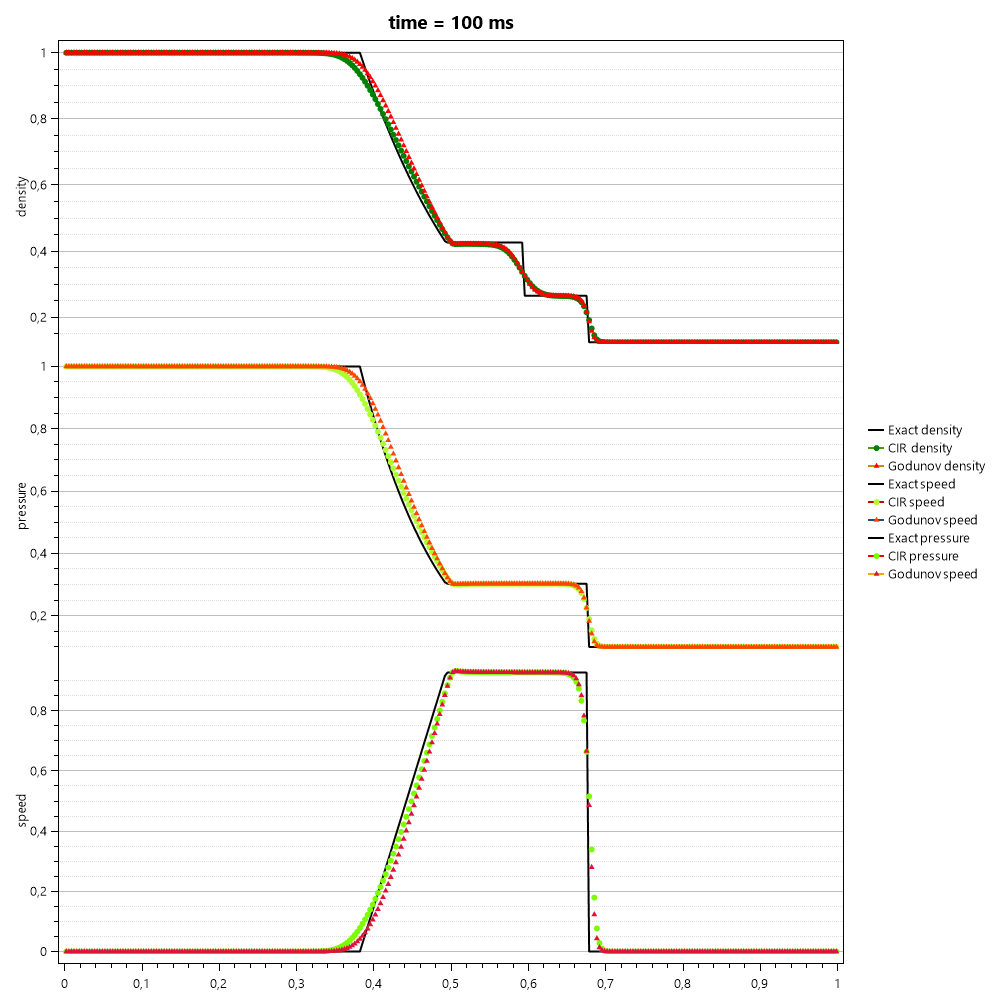
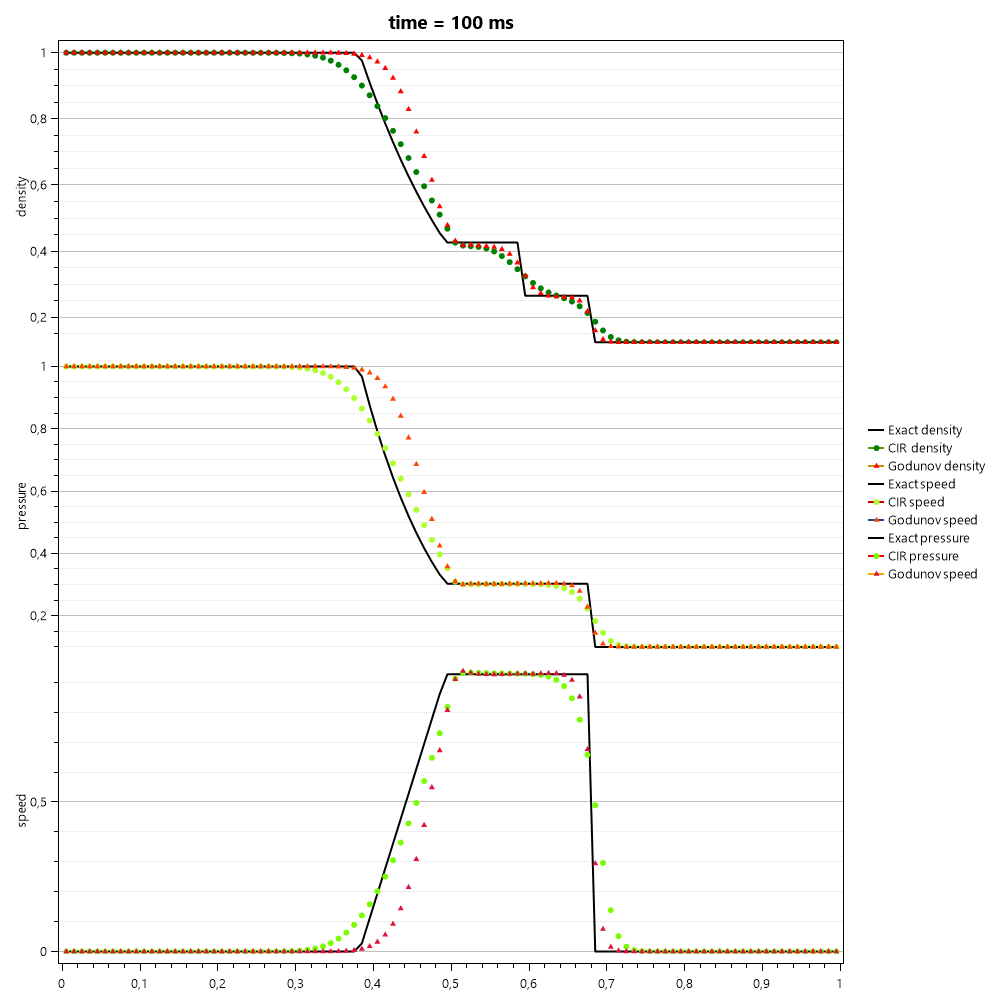
минмод метод, график исправление

diff --git a/Utility/Plots.cs b/Utility/Plots.cs
@@ -14,7 +14,7 @@ namespace Sod.Utility
 {
     public abstract class Plots : Write
     {
-        public static void PlotBoth(Parameters param, double[,] v_cons1, double[,] v_cons2, string method)
+        public static void PlotBoth(Parameters param, double[,] v_cons1, double[,] v_cons2, string method,string method1, string method2)
         {
             method = method + "both_";
             var time = param.stop_time;
@@ -45,7 +45,7 @@ namespace Sod.Utility
             };
             var ls1 = new LineSeries()
             {
-                Title = "CIR density",
+                Title = method1+" density",
                 MarkerStrokeThickness = 0,
                 MarkerStroke = OxyColors.Transparent,
                 LineStyle = LineStyle.None,
@@ -55,7 +55,7 @@ namespace Sod.Utility
             };
             var ls1_ = new LineSeries()
             {
-                Title = "Godunov density",
+                Title = method2+" density",
                 MarkerStrokeThickness = 0,
                 MarkerStroke = OxyColors.Transparent,
                 LineStyle = LineStyle.None,
@@ -69,7 +69,7 @@ namespace Sod.Utility
             //поменял местами для красоты
             var ls2 = new LineSeries()
             {
-                Title = "CIR speed",
+                Title = method1 +" speed",
                 MarkerStrokeThickness = 0,
                 MarkerStroke = OxyColors.Transparent,
                 LineStyle = LineStyle.None,
@@ -79,7 +79,7 @@ namespace Sod.Utility
             };
             var ls2_ = new LineSeries()
             {
-                Title = "Godunov speed",
+                Title = method2+ " speed",
                 MarkerStrokeThickness = 0,
                 MarkerStroke = OxyColors.Transparent,
                 LineStyle = LineStyle.None,
@@ -92,7 +92,7 @@ namespace Sod.Utility
 
             var ls3 = new LineSeries()
             {
-                Title = "CIR pressure",
+                Title = method1 + " pressure",
                 MarkerStrokeThickness = 0,
                 MarkerStroke = OxyColors.Transparent,
                 LineStyle = LineStyle.None,
@@ -102,7 +102,7 @@ namespace Sod.Utility
             };
             var ls3_ = new LineSeries()
             {
-                Title = "Godunov speed",
+                Title = method2 +" speed",
                 MarkerStrokeThickness = 0,
                 MarkerStroke = OxyColors.Transparent,
                 LineStyle = LineStyle.None,

diff --git a/Program.cs b/Program.cs
@@ -13,10 +13,10 @@ namespace Sod
         static void Main()
         {
 
-            int N = 300;
+            int N = 200;
             string result_name_file = $"";
             double gamma = 1.4;
-            double time = 0.1;
+            double time = 0.05;
 
             // Sod, Modified Sod, 2 vacuum waves, Big gradient, 3 breaks
             double[,] left = { { 1, 0, 1 }, { 1.0, 0.75, 1.0 }, { 1.0, -2.0, 0.4 }, { 1.0, 0.0, 1000.0 }, { 5.99924, 19.5975, 460.894 } };
@@ -43,7 +43,7 @@ namespace Sod
                 var mm = new Minmod(param);
                 var m = mm.CalculateWrite(result_name_file + "Test " + i.ToString() + " ", false, 3, 0.2);
 
-                Plots.PlotBoth(param, g, m, "Test " + i.ToString() + " ");
+                Plots.PlotBoth(param, g, m, "Test " + i.ToString() + " ","Godunov","MUSCL");
             }
             return;
 

diff --git a/CFL/minmod.cs b/CFL/minmod.cs
@@ -237,7 +237,9 @@ namespace Sod.CFL
 
                     for (int j = 0; j < M; j++)
                     {
-                        u_next[i, j] = (0.8 * u_next[i, j] + 0.2 * (u_prev[i, j] - dt * (flux_right[j] - flux_left[j]) / (x[i + 1] - x[i])));
+                        //CHasovskoy Scheme
+                        //u_next[i, j] = (0.8 * u_next[i, j] + 0.2 * (u_prev[i, j] - dt * (flux_right[j] - flux_left[j]) / (x[i + 1] - x[i])));
+                        u_next[i, j] = u_prev[i, j] - dt * (flux_right[j] - flux_left[j]) / (x[i + 1] - x[i]);
                     }
                 }
 
